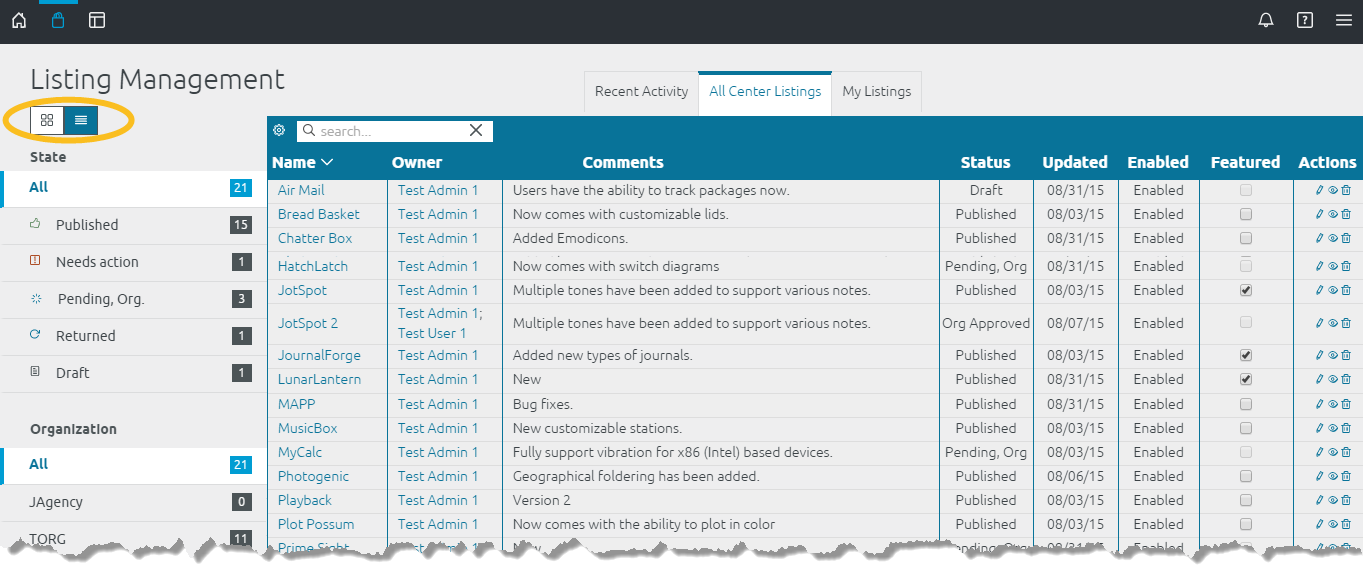
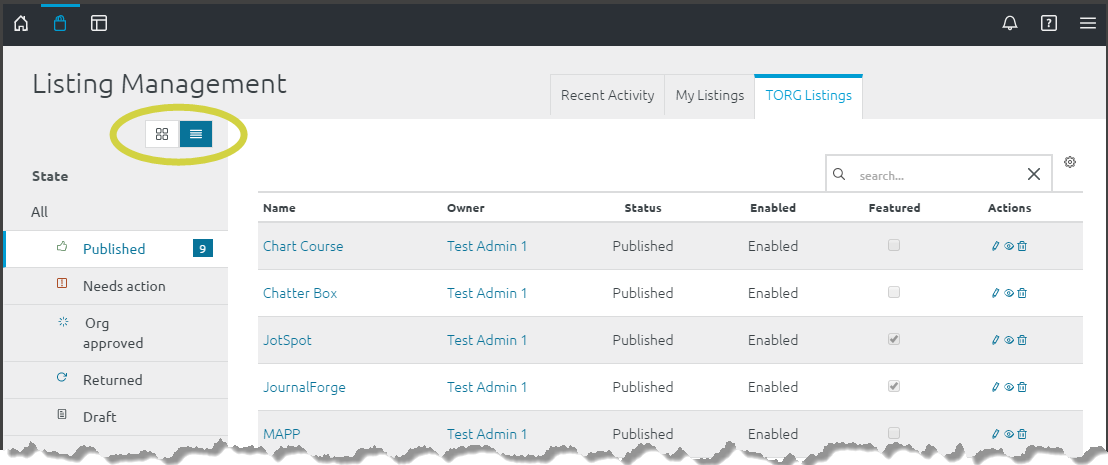
listing management table updates

diff --git a/src/scripts/components/articles/Center_listingManagementPage_orgSteward.html b/src/scripts/components/articles/Center_listingManagementPage_orgSteward.html
@@ -62,6 +62,20 @@
 	<li>Preview a listing by clicking its Name. From here, you can publish pending listings using the Administration tab.</li>
 	<li>See the listing owner&#39;s profile by clicking their name.</li>
 	<li>Read the last entry in the listing&#39;s change log (entered in the comments field).</li>
-	<li>Feature a listing by checking it. Also, to stop using a listing as a Featured Listing on the Search and Discovery Page, uncheck it.</li>
+	<li>Org stewards cannot change the Featured field. Center Stewards use it to feature or stop featuring a listing on the Search and Discovery Page.</li>
 	<li>Edit, review feedback comments, view or delete a listing from the Actions column.</li>
 </ul>
+
+<h3>Customize the Listing Management Table View</h3>
+<p>You can hide some columns on the Listing Management Table. To customize your table view:</p>
+
+<img border="0" alt="Listing Management Display/Hide Columns Setting" src="Doc_images/ListingManagementTable_SettingsGear.png" />
+
+<ul>
+	<li>Click the gear located right of the search box (shown in the figure above).</li>
+	<li>Click the radio button on or off to display or hide columns from the table:</li>
+</ul>
+
+<img border="0" alt="Listing Management Display/Hide Columns Setting" src="Doc_images/ListingManagementTable_SettingsWindow.png" />
+
+

diff --git a/src/scripts/components/articles/Center_listingManagementPage_centerSteward.html b/src/scripts/components/articles/Center_listingManagementPage_centerSteward.html
@@ -73,5 +73,16 @@
 	<li>Edit, review feedback comments, view or delete a listing from the Actions column.</li>
 </ul>
 
+<h3>Customize the Listing Management Table View</h3>
+<p>You can hide some columns on the Listing Management Table. To customize your table view:</p>
+
+<img border="0" alt="Listing Management Display/Hide Columns Setting" src="Doc_images/ListingManagementTable_SettingsGear.png" />
+
+<ul>
+	<li>Click the gear located right of the search box (shown in the figure above).</li>
+	<li>Click the radio button on or off to display or hide columns from the table:</li>
+</ul>
+
+<img border="0" alt="Listing Management Display/Hide Columns Setting" src="Doc_images/ListingManagementTable_SettingsWindow.png" />
 
 
